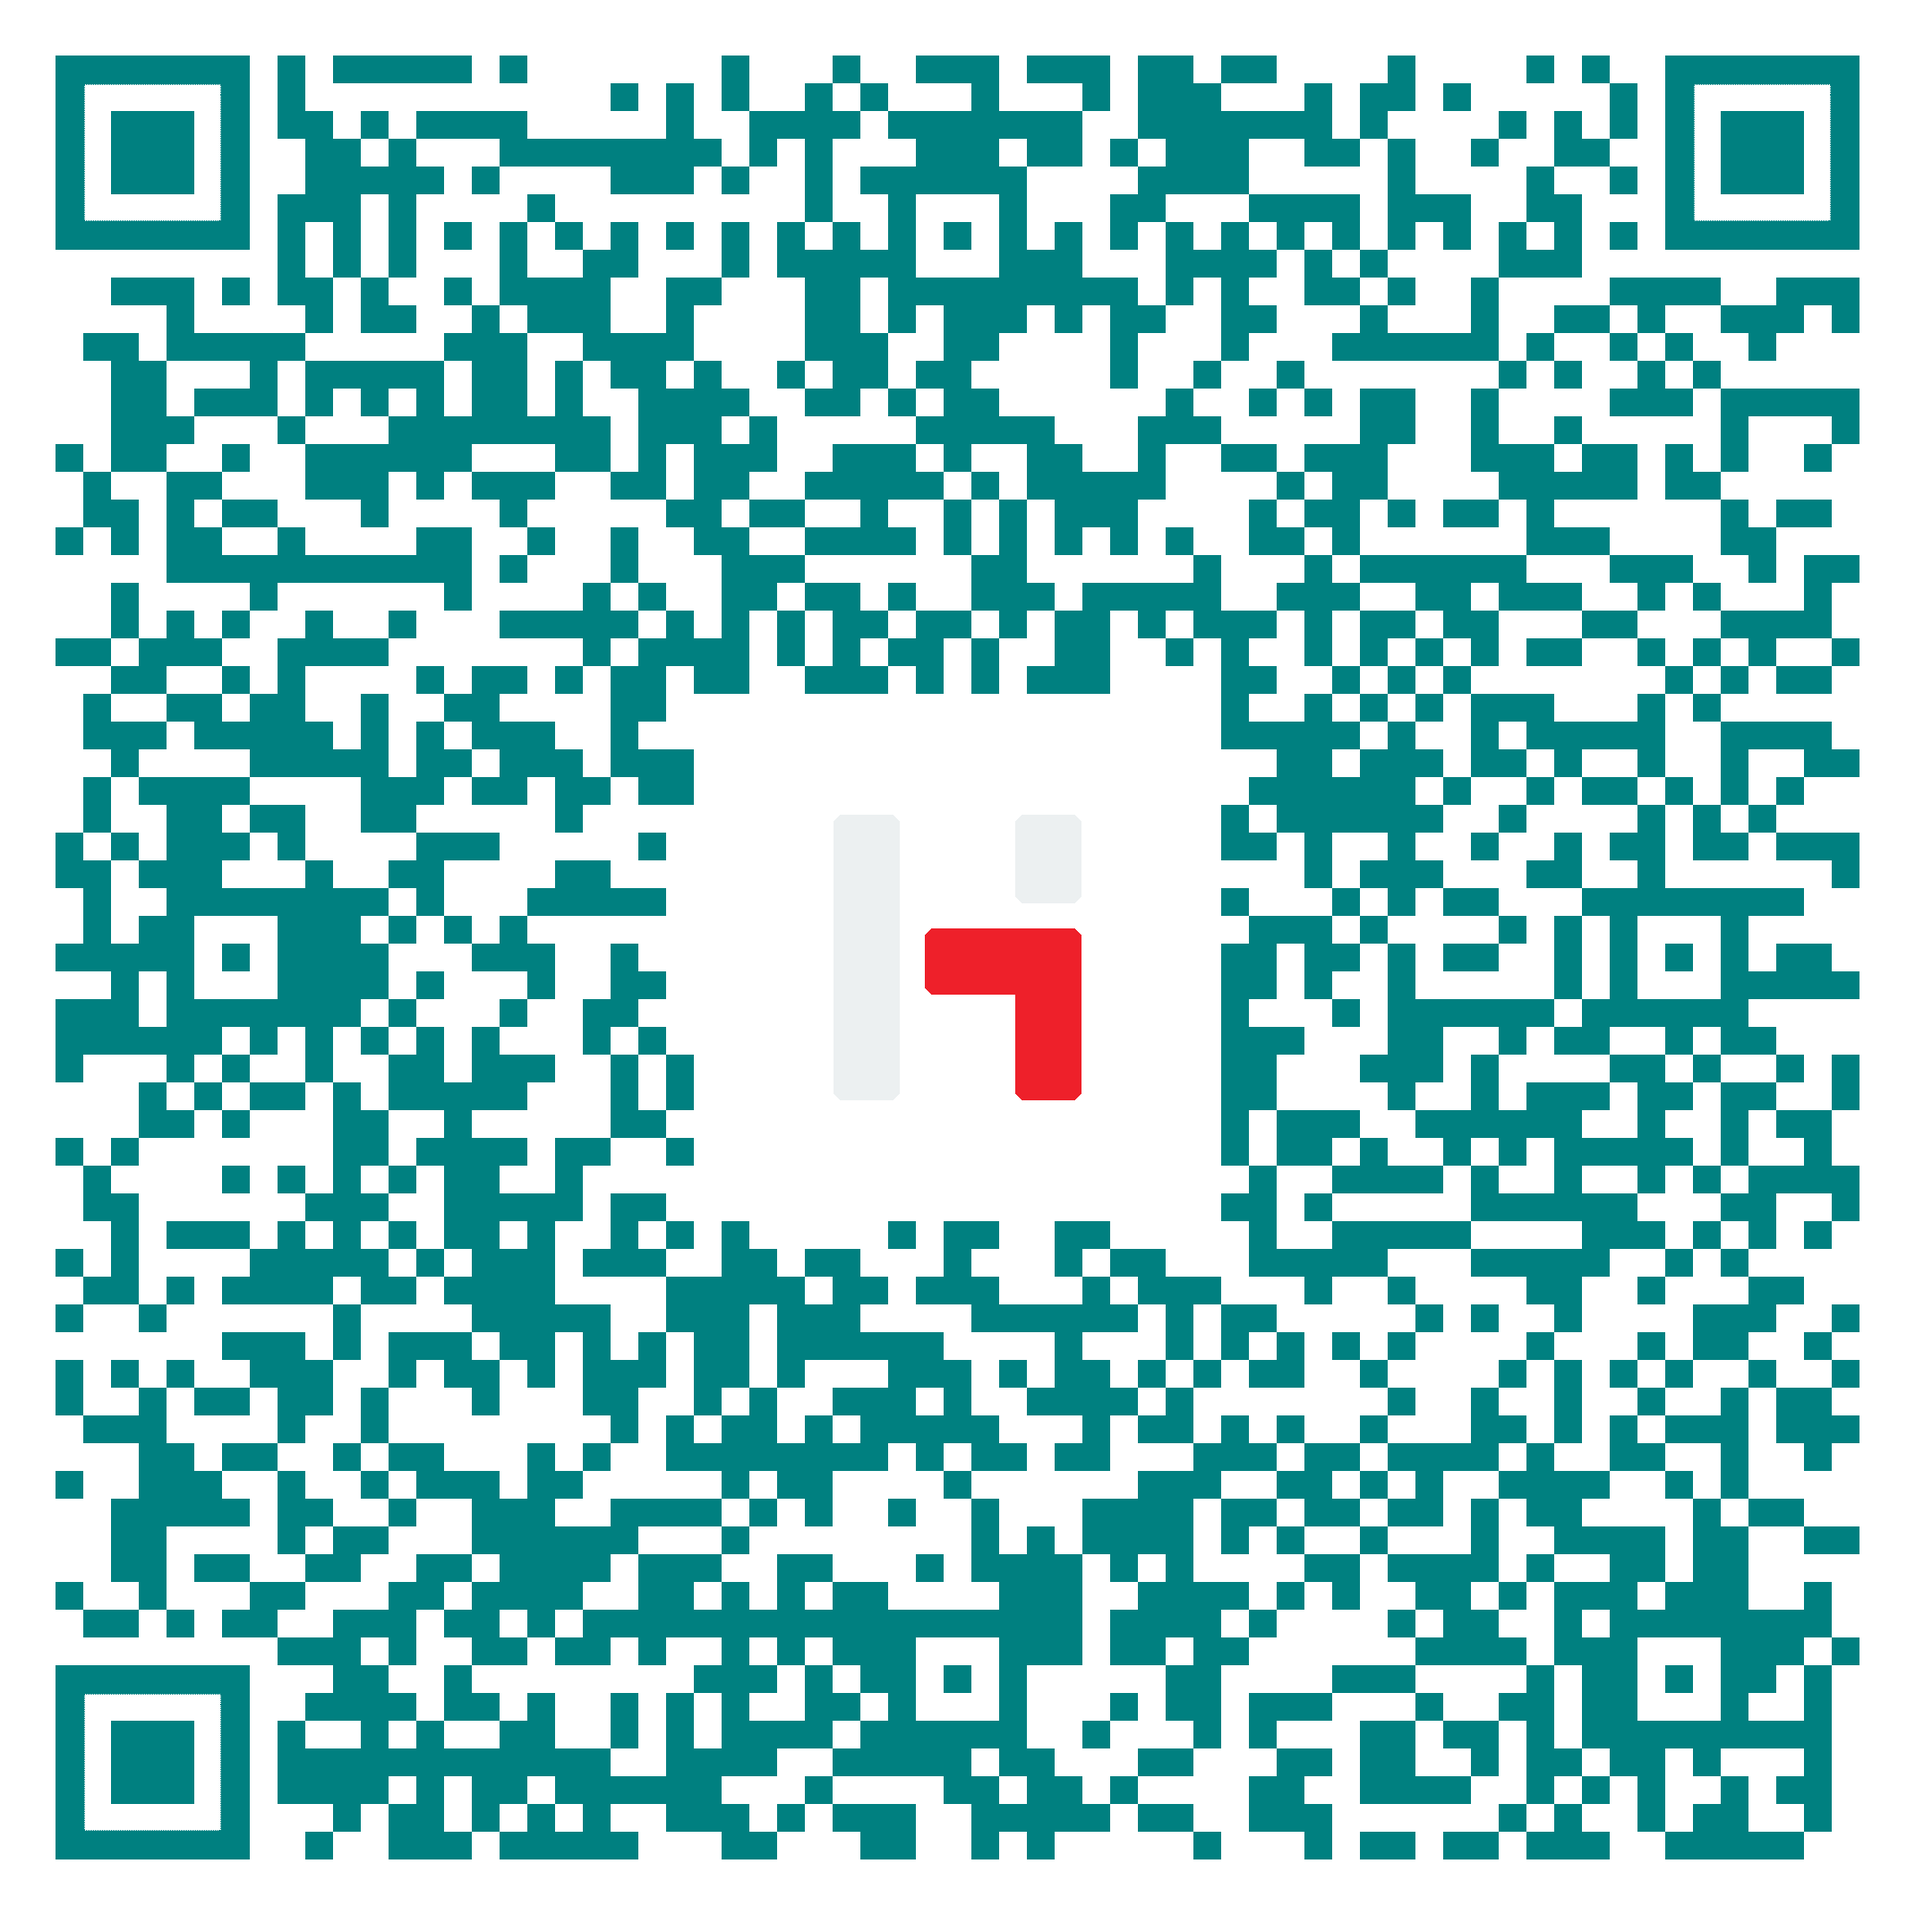
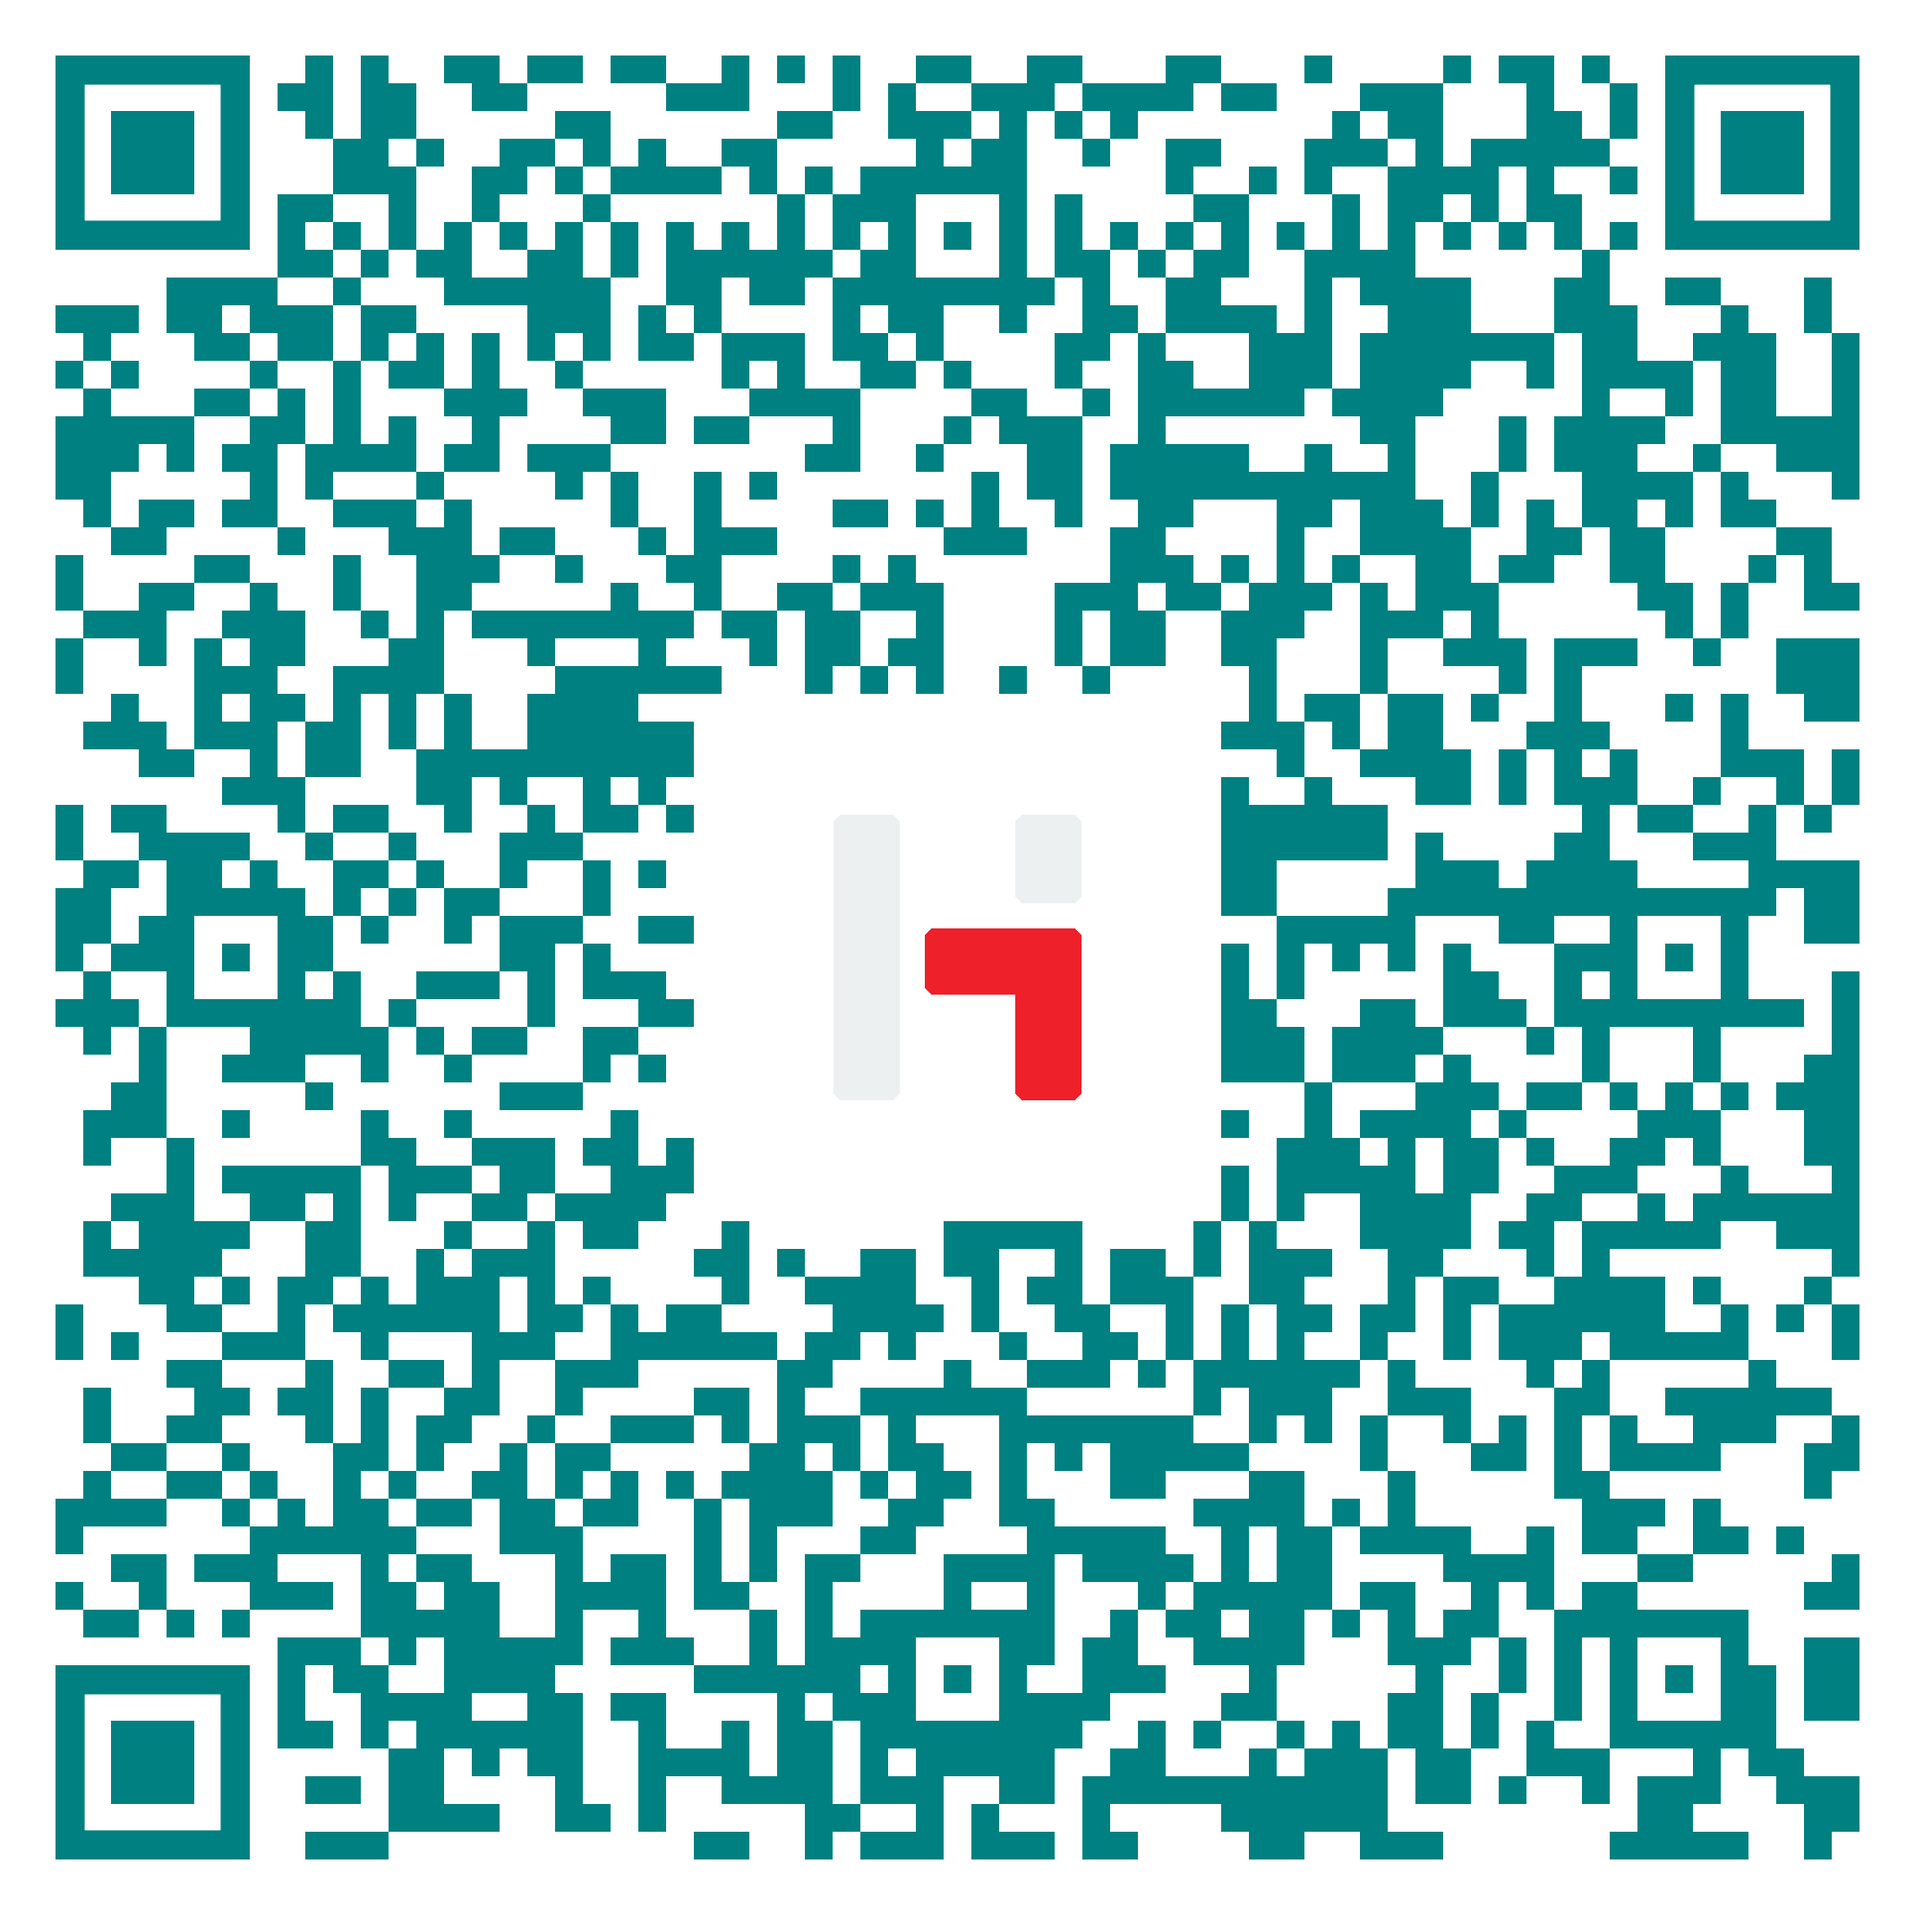
Add files via upload

diff --git a/cafe.html b/cafe.html
@@ -203,7 +203,7 @@
           </button>
         </div>
         <div class="pix-card__key-wrapper">
-          <span id="pix-key-text" class="pix-card__key-text" aria-labelledby="pix-key-label" aria-hidden="true">a44ef80e-0311-494f-b2c0-8338f82375f5</span>
+          <span id="pix-key-text" class="pix-card__key-text" aria-labelledby="pix-key-label" aria-hidden="true">67f35c42-d759-4db4-b97b-f87dff1e8fb5</span>
         </div>
       </div>
     </section>
